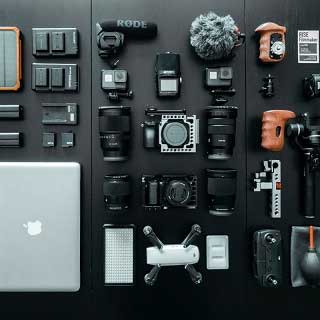
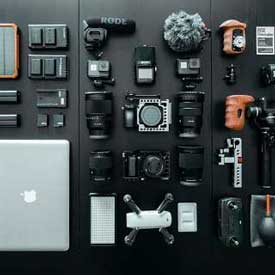
[REFACTOR] Change image in webp extension

diff --git a/index.html b/index.html
@@ -163,7 +163,14 @@
 					</div>
 					<div class="row tight-width-whitespace portfolio-row">
 						<div class="col-sm-6">
-							<a href="#" data-lightbox="img/1.jpg" data-gallery-id="gallery-1" data-caption="Refonte d'un site web pour un journal local" data-frame="snapshot-lb"><img src="img/1.jpg" alt="Image contenant des images de journaux" class="img-responsive portfolio-thumb" /></a>
+							<a href="#" data-lightbox="img/1.jpg" data-gallery-id="gallery-1" data-caption="Refonte d'un site web pour un journal local" data-frame="snapshot-lb">
+								<!-- <img src="img/1.jpg" alt="Image contenant des images de journaux" class="img-responsive portfolio-thumb" /> -->
+								<picture>
+									<source srcset="img/1.webp" type="image/webp">
+									<source srcset="img/1.jpg" type="image/jpg">
+									<img src="img/1.jpg" alt="Image contenant des journaux" class="img-responsive portfolio-thumb" />
+								</picture>
+							</a>
 							<h3 class="mg-md text-center">
 								Refonte d'un site web pour un journal local
 							</h3>
@@ -172,7 +179,14 @@
 							</p>
 						</div>
 						<div class="col-sm-6">
-							<a href="#" data-lightbox="img/2.jpg" data-gallery-id="gallery-1" data-caption="Création d'un site web pour photographes" data-frame="snapshot-lb"><img src="img/2.jpg" class="img-responsive portfolio-thumb" alt="Image contenant une photographe" /></a>
+							<a href="#" data-lightbox="img/2.jpg" data-gallery-id="gallery-1" data-caption="Création d'un site web pour photographes" data-frame="snapshot-lb">
+								<!-- <img src="img/2.jpg" class="img-responsive portfolio-thumb" alt="Image contenant une photographe" /> -->
+								<picture>
+									<source srcset="img/1.webp" type="image/webp">
+									<source srcset="img/1.jpg" type="image/jpg">
+									<img src="img/2.jpg" class="img-responsive portfolio-thumb" alt="Image contenant une photographe" />
+								</picture>
+							</a>
 							<h3 class="mg-md text-center">
 								Création d'un site web pour photographes
 							</h3>
@@ -183,7 +197,14 @@
 					</div>
 					<div class="row tight-width-whitespace portfolio-row">
 						<div class="col-sm-6">
-							<a href="#" data-lightbox="img/3.jpg" data-gallery-id="gallery-1" data-caption="Création d'un site internet pour un voyageur" data-frame="snapshot-lb"><img src="img/3.jpg" class="img-responsive portfolio-thumb" alt="Image contenant du matériels de vidéaste"/></a>
+							<a href="#" data-lightbox="img/3.jpg" data-gallery-id="gallery-1" data-caption="Création d'un site internet pour un voyageur" data-frame="snapshot-lb">
+								<!-- <img src="img/3.jpg" class="img-responsive portfolio-thumb" alt="Image contenant du matériels de vidéaste"/> -->
+								<picture>
+									<source srcset="img/1.webp" type="image/webp">
+									<source srcset="img/1.jpg" type="image/jpg">
+									<img src="img/3.jpg" class="img-responsive portfolio-thumb" alt="Image contenant du matériels de vidéaste"/>
+								</picture>
+							</a>
 							<h3 class="mg-md text-center">
 								Création d'un site internet pour un voyageur
 							</h3>
@@ -192,7 +213,14 @@
 							</p>
 						</div>
 						<div class="col-sm-6">
-							<a href="#" data-lightbox="img/4.jpg" data-gallery-id="gallery-1" data-caption="Conception d'un site pour une agence de mariage" data-frame="snapshot-lb"><img src="img/4.jpg" class="img-responsive portfolio-thumb" alt="Image montrant l'organisation d'un mariage" /></a>
+							<a href="#" data-lightbox="img/4.jpg" data-gallery-id="gallery-1" data-caption="Conception d'un site pour une agence de mariage" data-frame="snapshot-lb">
+								<!-- <img src="img/4.jpg" class="img-responsive portfolio-thumb" alt="Image montrant l'organisation d'un mariage" /> -->
+								<picture>
+									<source srcset="img/1.webp" type="image/webp">
+									<source srcset="img/1.jpg" type="image/jpg">
+									<img src="img/4.jpg" class="img-responsive portfolio-thumb" alt="Image montrant l'organisation d'un mariage" />
+								</picture>
+							</a>
 							<h3 class="mg-md text-center">
 								Conception d'un site pour une agence de mariage
 							</h3>
